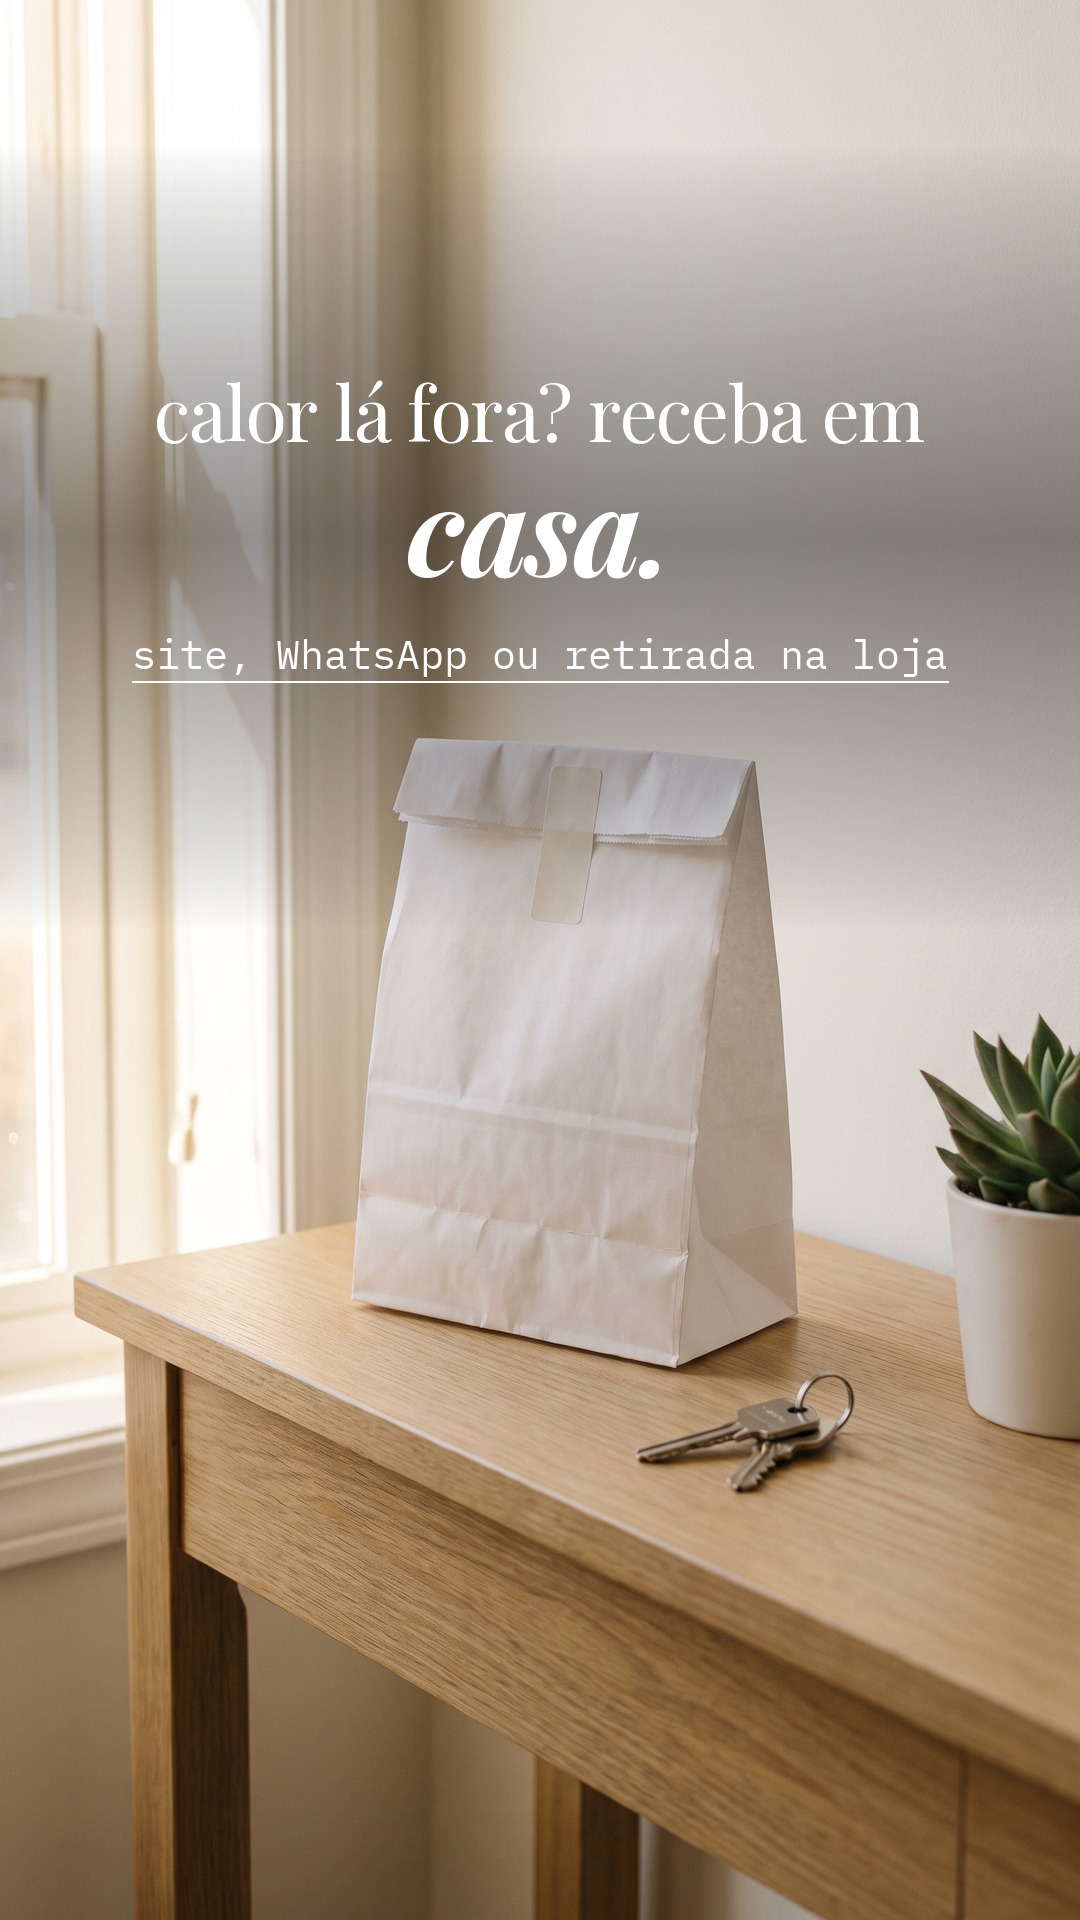
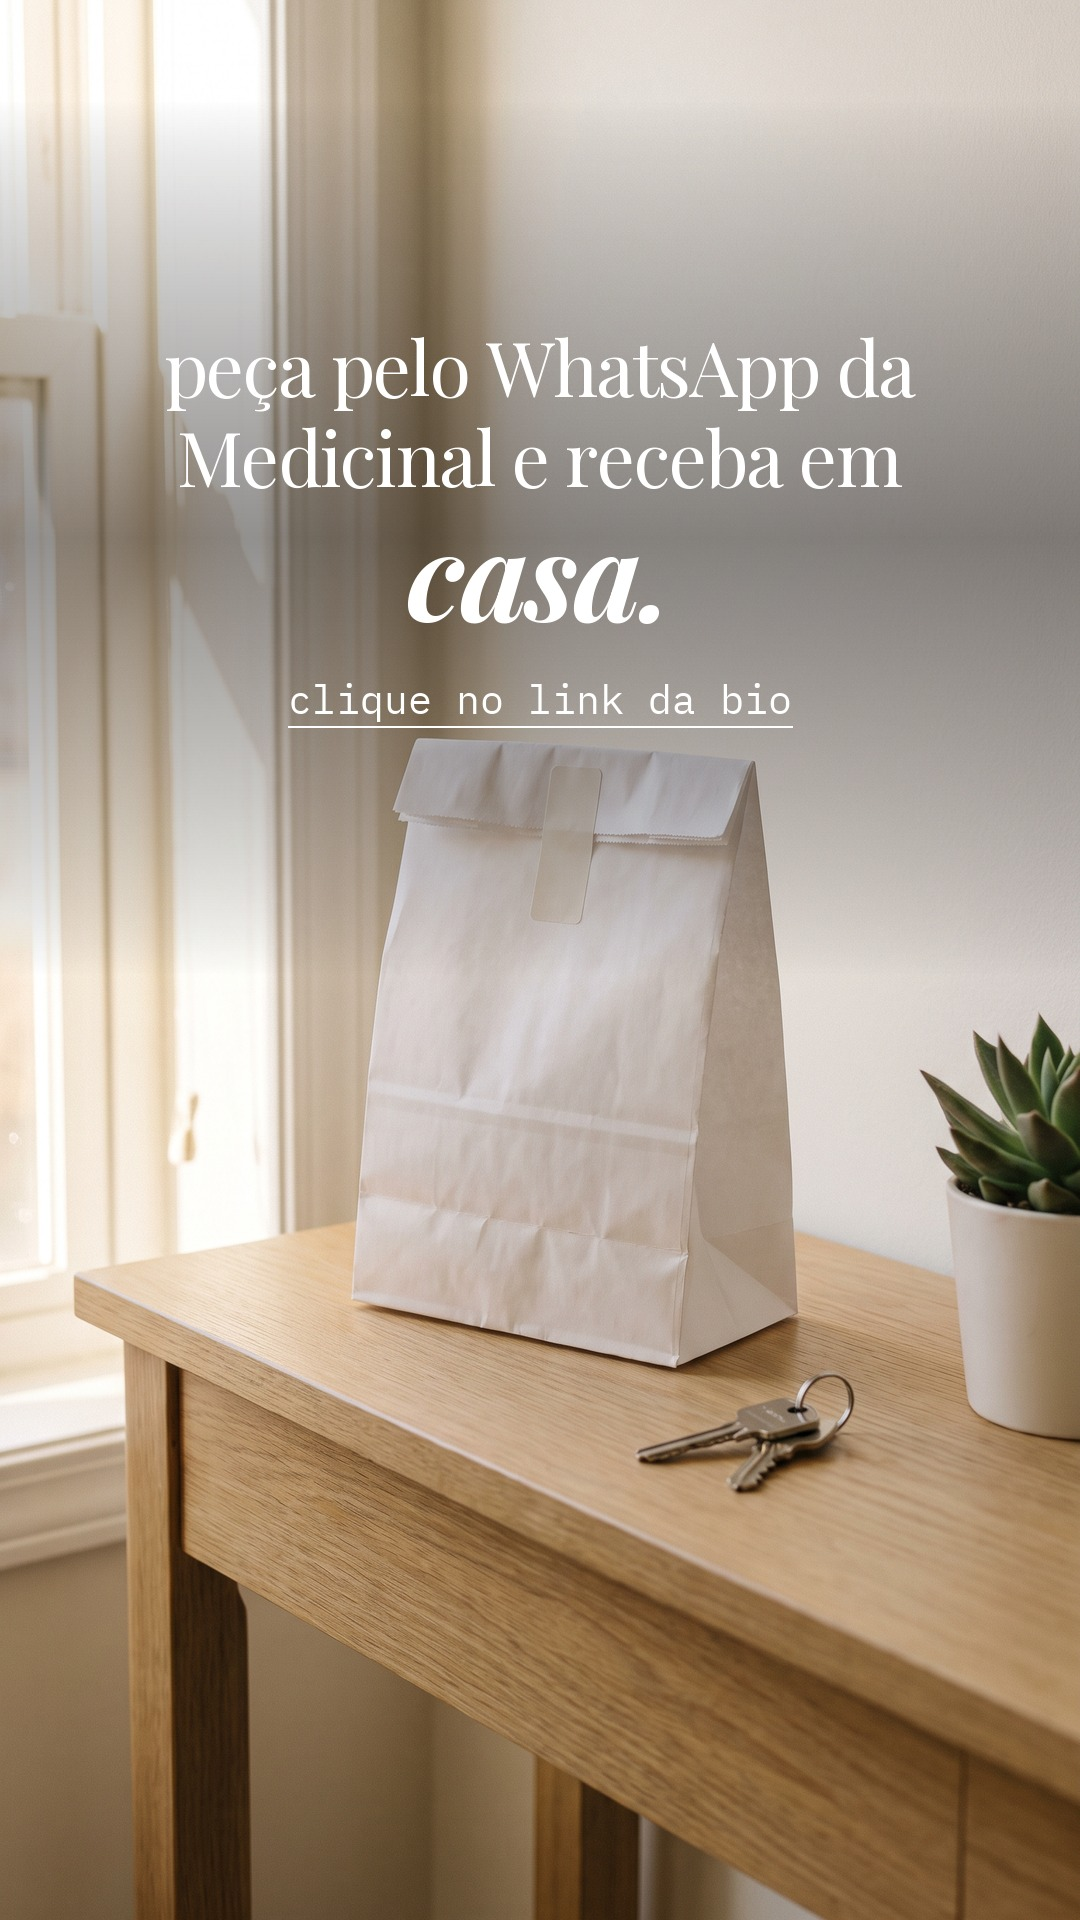
Story fixo diário: peça pelo WhatsApp e receba em casa (regra + arte de 24/11)
Claude-Session: https://claude.ai/code/session_01Bm6rABw341qEUcQn2o9EUx

Changed region(s): [[0.1528, 0.1562, 0.8556, 0.375]]

diff --git a/docs/13-portal-instagram.md b/docs/13-portal-instagram.md
@@ -239,3 +239,13 @@ Travas: execução manual só cria o container e não publica; título começand
 - **14/11:** Ricardo aprovou o Dermo-day de 18/11 (4 stories, carrossel e story "POST NOVO", todos conferidos no padrão oficial); `ig_dermo` 18/11 aprovado. O story "POST NOVO" foi para 18:10, para sair depois do carrossel.
 - **16/11:** Ricardo aprovou segunda 16/11 (6 peças no padrão oficial; legenda da creatina sem "farmacêutica" e sem "Comente CREATINA"; melatonina mantida) e o resto da terça 17/11. Carrossel do Novembro Azul mantido na sexta 20/11 18:00.
 - **20/11 (Dia da Consciência Negra):** 2 stories da Serra da Barriga (Zumbi e Quilombo dos Palmares), homenagem à gerente comercial às 10:00 (foto real fornecida pelo Ricardo, uso autorizado pela colaboradora; foto mantida fora do repositório), stories do dia com pessoas negras e vídeo do PeptiStrong editado com mão negra. Tudo aprovado pelo Ricardo.
+
+## Story fixo "peça pelo WhatsApp e receba em casa" (Ricardo, 24/11/2026)
+
+Pedido do Ricardo: postagem **constante** sobre pedir o produto pelo WhatsApp da Medicinal e receber em casa.
+
+- **Frequência:** 1 story por dia, no fim da tarde (padrão 19:30; ajustar se colidir com outro post).
+- **Mensagem fixa:** "peça pelo WhatsApp da Medicinal e receba em *casa.*" + linha de baixo "clique no link da bio". Legenda/explicação: "Clique no link da bio e seja encaminhado ao canal de atendimento."
+- **Revezamento de 3 artes** (padrão oficial, foto real, sem rosto, sem logo de terceiros) para não repetir a mesma imagem em dias seguidos: sacola na mesa da entrada, entrega na porta, celular no sofá.
+- Não conta como "produto com link do dia" (é serviço, não produto) e não leva palavra-chave.
+- Em `ig_post`: canal story, título "Peça pelo WhatsApp e receba em casa", campanha `whatsapp-entrega`.
